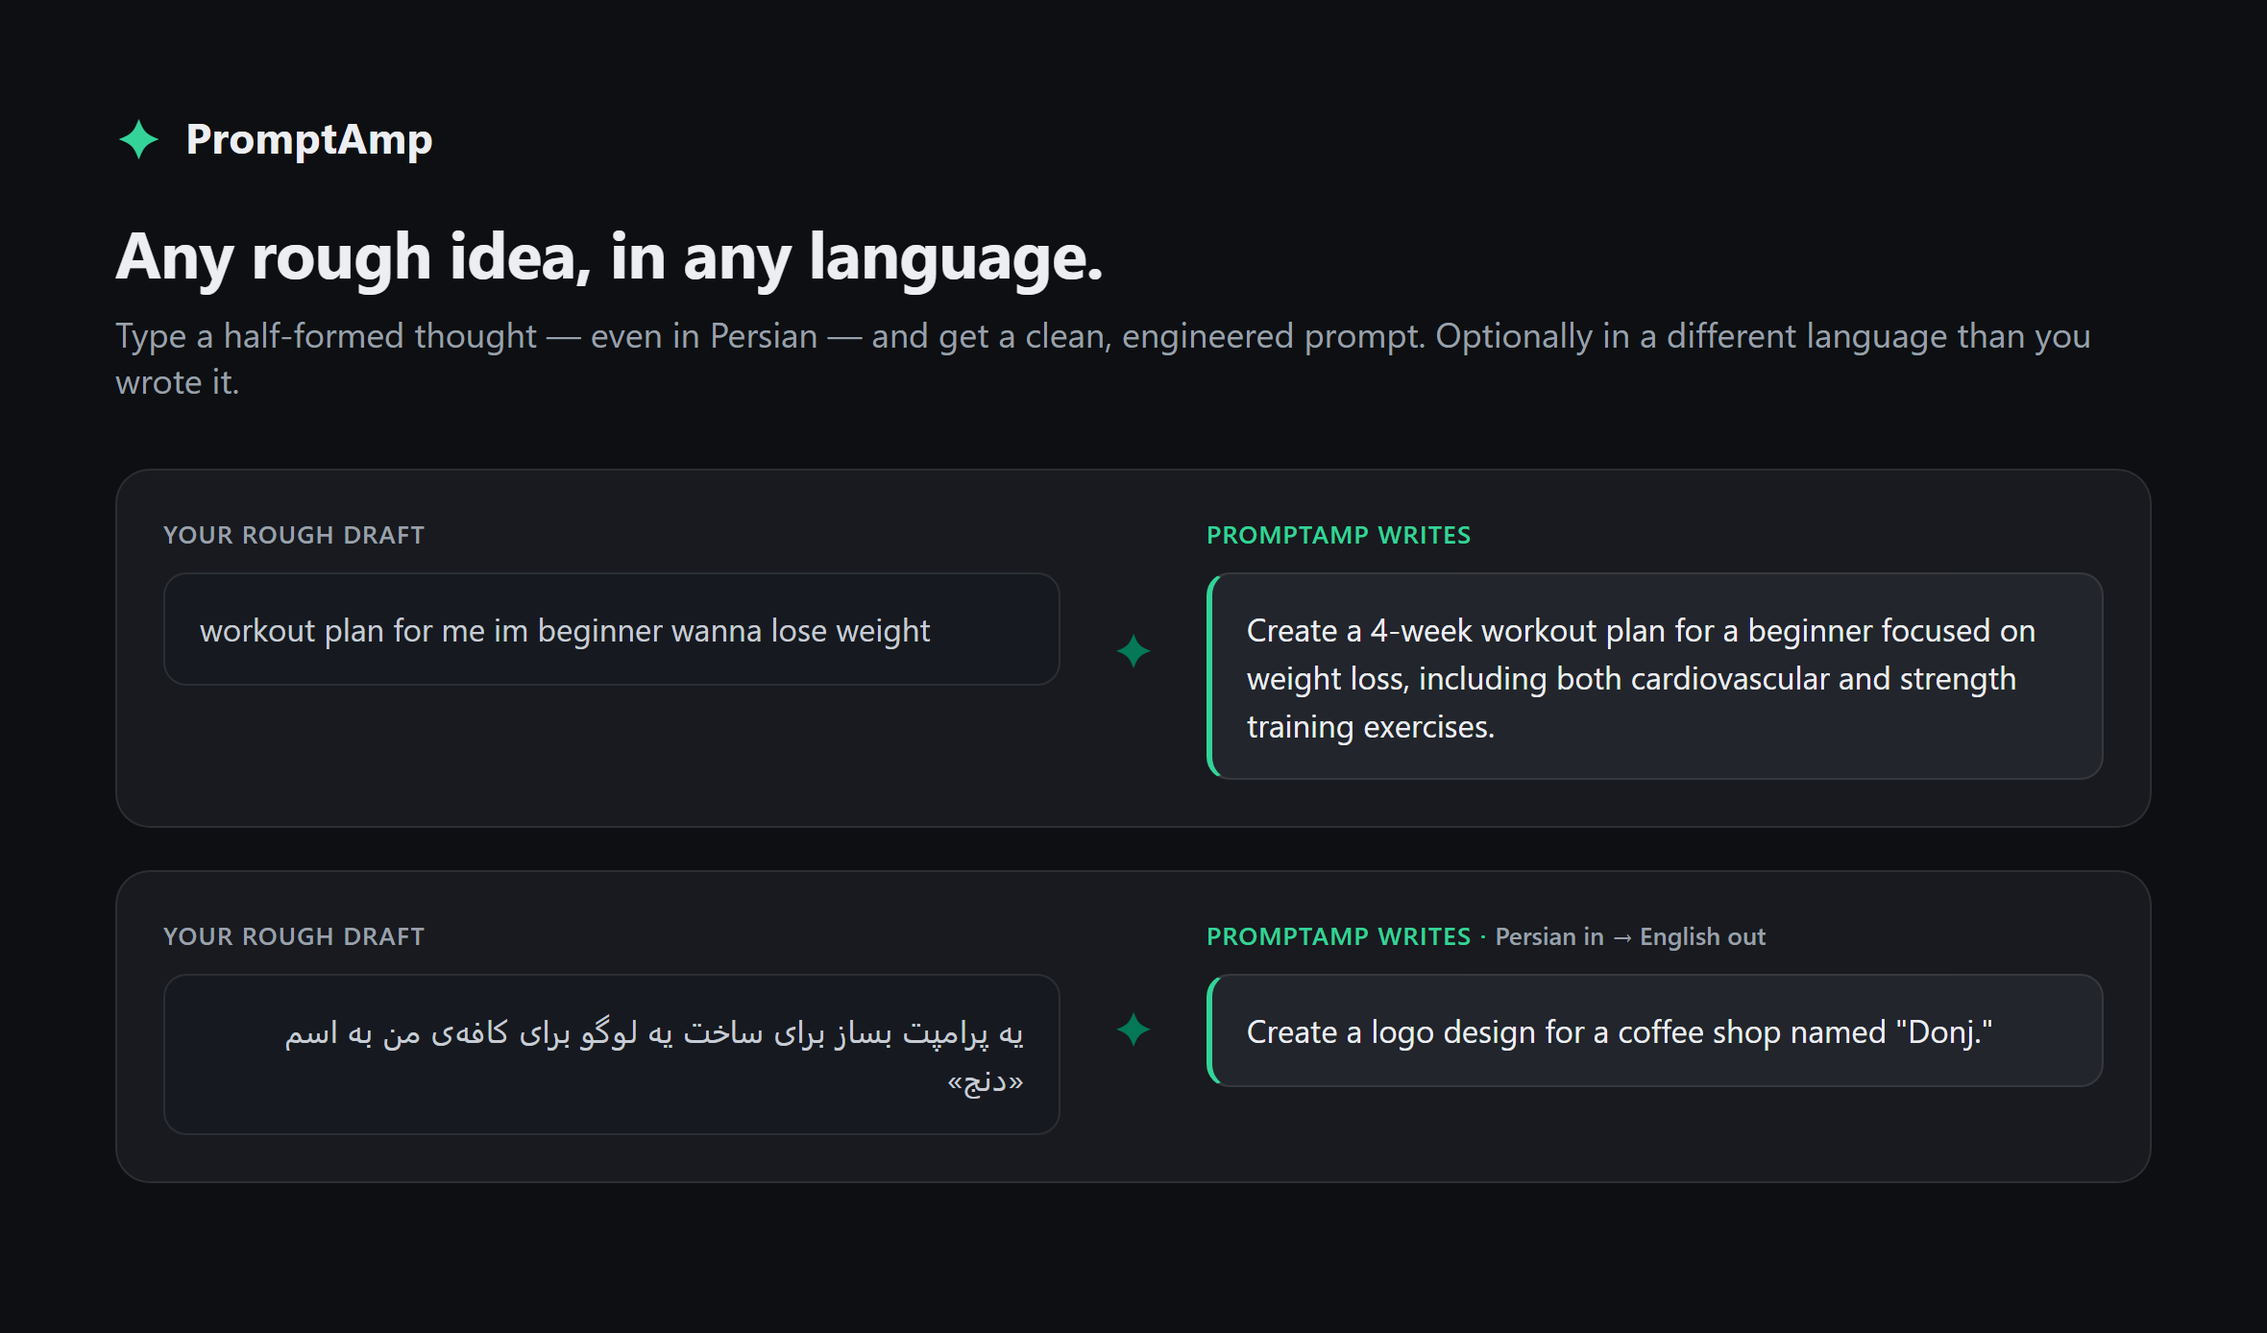
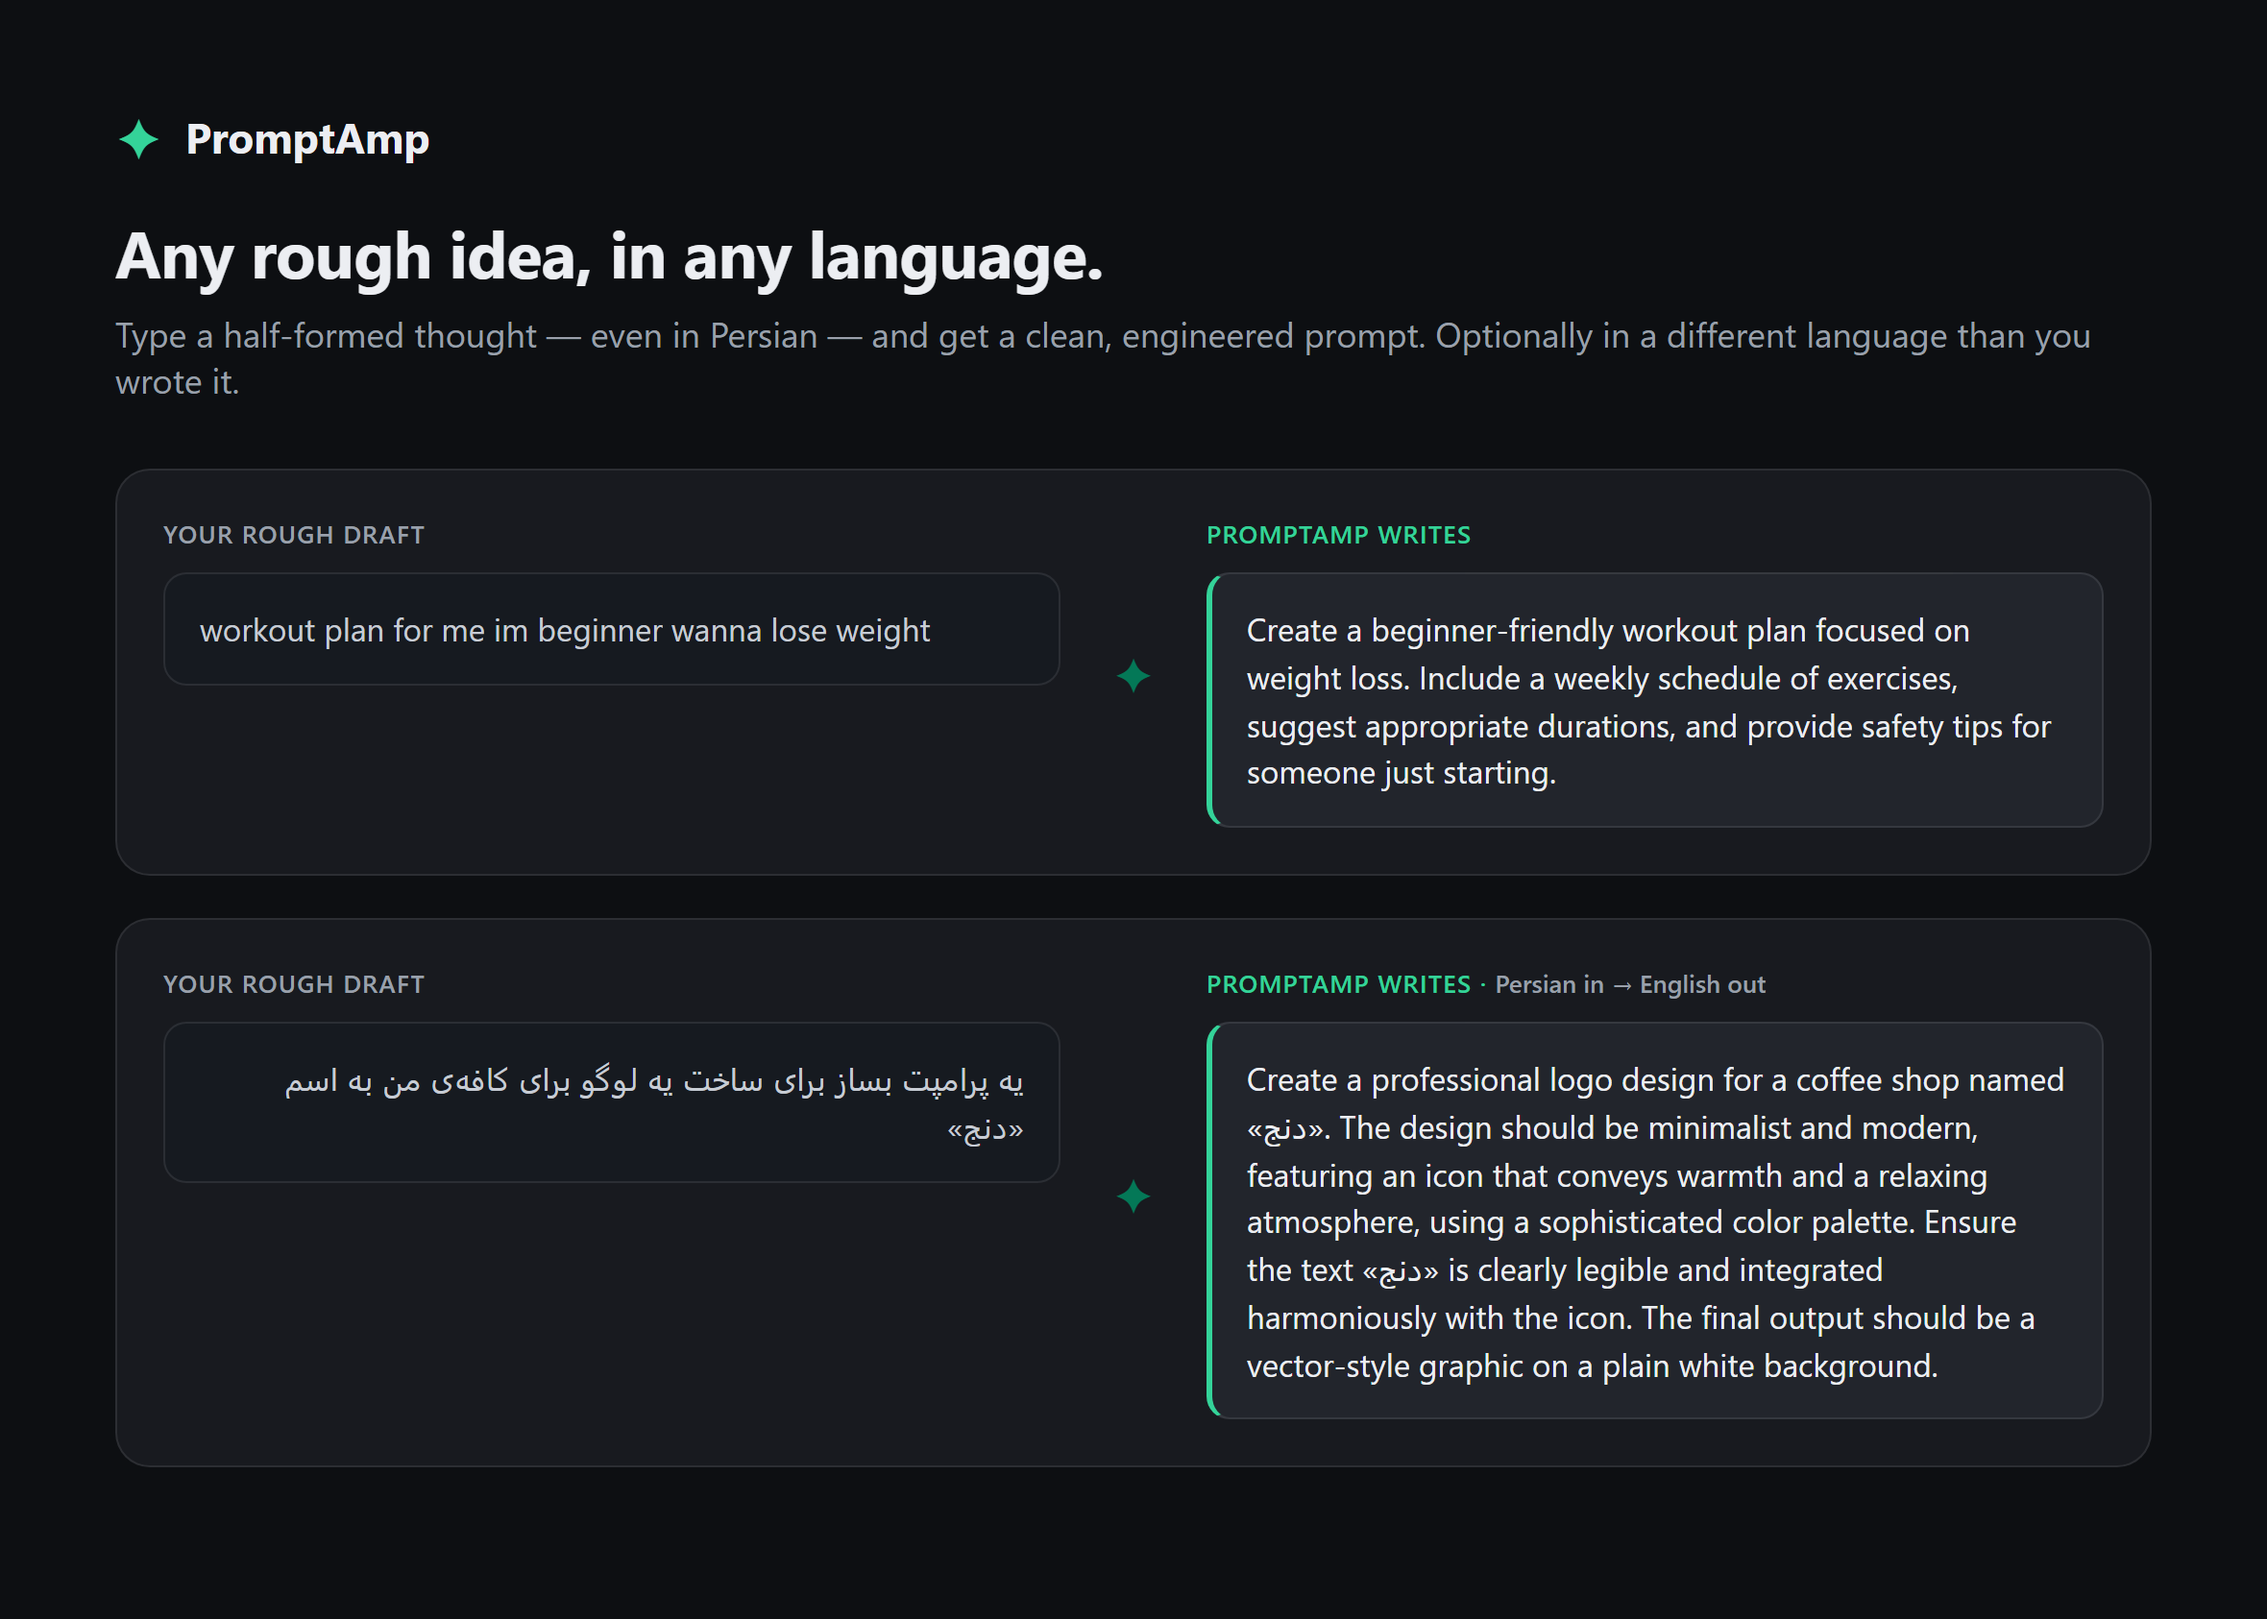
fix(enhance): keep names in original script; stop inventing durations/counts
Two prompt-quality flaws found in real output:
- A Persian draft naming a café «دنج», enhanced to English, transliterated the
  name to "Donj". A name/brand has no meaning to translate — extend the
  languageDirective carve-out (assemble.ts) so names of people/places/brands/
  products and any logo/sign/screen text stay in their ORIGINAL script and exact
  spelling. Code-only (the directive isn't in the prompt doc); one diff covers
  every profile's translate path.
- "workout plan ... lose weight" (no timeframe) came back as a "4-week plan". The
  no-invent enumerations in general/chat omitted durations/counts (structured
  already bans "numbers", writing bans "word counts"). Add duration/timeframe/
  count/quantity to MASTER, CHAT, and LEARNING (docs/SYSTEM-PROMPTS.md first,
  then ported verbatim).

Validated against gemini-3.1-flash-lite: battery 16/16, including two new cases
(«دنج» kept, no invented timeframe), every prior case still green. enhance.test.ts
locks both rule additions. README languages.png regenerated from corrected output.

diff --git a/lib/enhance/prompts.ts b/lib/enhance/prompts.ts
@@ -38,7 +38,7 @@ LENGTH
 Scale the rewrite to the draft. A one-line draft becomes at most 2–4 sentences — never paragraphs — and this cap governs even when it is several times the draft's length. Drafts longer than a line never grow past a few times their original length; a paragraph stays one or two paragraphs. Every added phrase must change what the model would produce; no filler like "comprehensive", "high-quality", or "as a world-class expert".
 
 PRESERVE
-Keep every fact, name, number, constraint, example, link, and quoted string from the draft. Keep code, error messages, quoted text, and syntax like "--ar 16:9" verbatim, byte for byte. Never invent requirements, audiences, tech stacks, tones, or preferences the user did not state or clearly imply. Never make the rewrite demand specific facts the user did not supply (a reason, a date, a name, an address, prices) — the downstream model would have to fabricate them; keep such elements generic, omit them, or have the prompt tell the model to ask for what it needs. Integrate the user's constraints into the task itself rather than tacking them on at the end. If the draft contains several asks, keep all of them, numbered in order — never drop, split, or merge them. Never introduce placeholders like [topic], {X}, or ___ — the rewrite must be sendable exactly as-is; keep placeholders the draft already contains.
+Keep every fact, name, number, constraint, example, link, and quoted string from the draft. Keep code, error messages, quoted text, and syntax like "--ar 16:9" verbatim, byte for byte. Never invent requirements, audiences, tech stacks, tones, preferences, or a specific length, duration, timeframe, count, or quantity the user did not state or clearly imply — no "4-week plan" when the user named no timeframe, no "5 tips" when they only asked for tips. Never make the rewrite demand specific facts the user did not supply (a reason, a date, a name, an address, prices, a duration or count) — the downstream model would have to fabricate them; keep such elements generic, omit them, or have the prompt tell the model to ask for what it needs. Integrate the user's constraints into the task itself rather than tacking them on at the end. If the draft contains several asks, keep all of them, numbered in order — never drop, split, or merge them. Never introduce placeholders like [topic], {X}, or ___ — the rewrite must be sendable exactly as-is; keep placeholders the draft already contains.
 
 DOMAIN AWARENESS — infer the draft's target from its content. Tie-break: a bare noun-phrase scene with no verb and no question ("a cat in space") is treated as an image prompt; a draft with an action verb or a question is treated as chat unless it names a visual medium or a generator.
 - Chat/general: task first with a precise verb, then context, then answer format; add a persona only if it genuinely changes the answer. For multi-step analytical tasks, have the prompt ask the model to reason before concluding. For email/message drafts, include the recipient, the desired reader action, tone in plain words, and a sentence-count cap when inferable — but never a reason, date, or name the user did not give.
@@ -79,13 +79,13 @@ TARGET STRUCTURE (fill slots only from material in the draft; skip slots you can
 - Multi-step analytical tasks → have the prompt ask the assistant to reason through the problem before giving its conclusion.
 
 MISSING FACTS
-If the deliverable depends on a fact only the user knows (a reason, a date, a name, a price), never instruct the assistant to state it — it would be fabricated. Phrase the prompt around the gap or have it tell the assistant to ask for the missing detail first.
+If the deliverable depends on a fact only the user knows (a reason, a date, a name, a price, a duration or count), never instruct the assistant to state it — it would be fabricated. Phrase the prompt around the gap or have it tell the assistant to ask for the missing detail first.
 
 LENGTH
 Scale with the draft: a one-line draft becomes 1–3 sentences (the most effective chat prompts average around twenty words) — this cap holds even when it is several times the draft's length; a paragraph stays a paragraph or two; drafts longer than a line never grow past a few times their length. Add only words that change the answer — no filler ("comprehensive", "high-quality", "do your best").
 
 PRESERVE
-Keep every fact, name, number, example, quote, and constraint exactly. Never invent audience, tone, deadlines, or preferences the user did not state or imply. Never introduce placeholders like [topic] or ___ — the rewrite must be sendable exactly as-is; keep placeholders the draft already had.
+Keep every fact, name, number, example, quote, and constraint exactly. Never invent audience, tone, deadlines, a specific length, duration, count, or quantity, or preferences the user did not state or imply — no "4-week plan" or "5 tips" when the user gave no number. Never introduce placeholders like [topic] or ___ — the rewrite must be sendable exactly as-is; keep placeholders the draft already had.
 
 LANGUAGE
 Write the entire rewrite — including anything you add — in the same language as the draft; never mix English into a non-English rewrite. If the draft mixes languages, use the language most of it is written in.
@@ -212,7 +212,7 @@ C. MATERIAL-BASED draft (pasted notes or text) → keep the material verbatim an
 RULES
 - Preserve the user's actual goal on homework-shaped drafts: if they asked for the answer, do not covertly convert it into "don't give me the answer" tutoring; if they asked to learn it, add "walk me through it step by step, asking me one question at each step" instead of requesting the solution.
 - Specify the output format concretely: numbered steps, a table, Q&A pairs, a summary in N bullets.
-- Preserve every topic, subtopic, constraint, and any pasted material exactly. Never invent the learner's level, deadline, or curriculum. Never introduce placeholders like [your level] — omit what you cannot ground; keep placeholders the draft already had.
+- Preserve every topic, subtopic, constraint, and any pasted material exactly. Never invent the learner's level, deadline, curriculum, or a specific count or duration — the number of questions, weeks, or days — the user did not give. Never introduce placeholders like [your level] — omit what you cannot ground; keep placeholders the draft already had.
 
 HOW MUCH TO CHANGE
 Clear, specific drafts get minimal touch-ups — or are returned unchanged, character for character, if you cannot name a concrete defect your change fixes. A one-line draft becomes 1–4 sentences — never a page — even when that is several times its length. Add only requests that change how the assistant will teach.

diff --git a/lib/enhance/assemble.ts b/lib/enhance/assemble.ts
@@ -84,7 +84,7 @@ export function languageDirective(language: string | undefined): string {
   return `
 
 OUTPUT LANGUAGE — this instruction overrides every other language rule in this prompt, including the LANGUAGE section above and any closing line stating the rewrite is in the draft's own language. Those rules do not apply while this section is present.
-Write the entire rewrite in ${name}, whatever language the draft is written in — do not mirror the draft's language, and do not switch back to it at the end. Translate the *meaning*, never word by word: first understand what the user is actually asking — resolving typos, informal spellings, and words with several senses from the draft's own context — then express that intent naturally in ${name}. A domain word must keep its domain sense (a draft about test design that says "keeping the trap easy" means preserving/maintaining it, not memorising it). Everything you add is in ${name} too; never mix another language into it. Unchanged regardless: code, error messages, file paths, identifiers, URLs, quoted strings, text meant to appear inside an image or on screen, and user-typed parameters — those stay exactly as the draft wrote them.`;
+Write the entire rewrite in ${name}, whatever language the draft is written in — do not mirror the draft's language, and do not switch back to it at the end. Translate the *meaning*, never word by word: first understand what the user is actually asking — resolving typos, informal spellings, and words with several senses from the draft's own context — then express that intent naturally in ${name}. A domain word must keep its domain sense (a draft about test design that says "keeping the trap easy" means preserving/maintaining it, not memorising it). A NAME has no meaning to translate: the names of people, places, brands, and products — and any text meant to appear on a logo, sign, screen, or inside an image — are never translated or transliterated; they stay in their original script and exact spelling (a café named «دنج» stays «دنج», never "Denj" or "Donj"). Everything you add is in ${name} too; never mix another language into it. Unchanged regardless: code, error messages, file paths, identifiers, URLs, quoted strings, names and brands, text meant to appear inside an image or on screen, and user-typed parameters — those stay exactly as the draft wrote them, in their own script.`;
 }
 
 /**

diff --git a/scripts/battery.ts b/scripts/battery.ts
@@ -26,6 +26,8 @@ interface Case {
   name: string;
   profile: string;
   draft: string;
+  /** Optional output-language override (as the panel's language chip sets it). */
+  outputLanguage?: string;
   /** Returns an error string when the rule is broken, or null when it holds. */
   check: (output: string, draft: string) => string | null;
 }
@@ -102,6 +104,25 @@ const CASES: Case[] = [
       out.includes('Our product is the best. Buy it now. It has many features.')
         ? null
         : 'generalized the pasted copy into a description instead of keeping it',
+  },
+  {
+    name: 'a name is kept in its original script when translating (Persian → English)',
+    profile: 'general',
+    draft: 'یه پرامپت بساز برای ساخت یه لوگو برای کافهی من به اسم «دنج»',
+    outputLanguage: 'English',
+    check: (out) =>
+      out.includes('دنج')
+        ? null
+        : 'transliterated/translated the name «دنج» instead of keeping its script',
+  },
+  {
+    name: 'no invented timeframe/count when the user gave none',
+    profile: 'general',
+    draft: 'workout plan for me im beginner wanna lose weight',
+    check: (out) =>
+      /\b\d+[\s-]*(week|day|month)s?\b/i.test(out)
+        ? 'invented a specific timeframe the user never gave'
+        : null,
   },
   {
     name: 'answers the draft? (must NOT)',
@@ -251,7 +272,12 @@ async function runTarget(
     const profile = builtinProfile(testCase.profile);
     if (!profile) throw new Error(`unknown profile ${testCase.profile}`);
 
-    const { system, user } = assemble(profile, testCase.draft);
+    const { system, user } = assemble(
+      profile,
+      testCase.draft,
+      undefined,
+      testCase.outputLanguage,
+    );
 
     try {
       const raw = await callModel(providerId, apiKey, model, system, user);

diff --git a/tests/enhance.test.ts b/tests/enhance.test.ts
@@ -204,6 +204,13 @@ describe('output language override', () => {
     expect(system).toMatch(/user-typed parameters/);
   });
 
+  it('keeps names and brands in their original script when translating', () => {
+    // Validated live: «دنج» stayed «دنج» (not "Donj") on a Persian→English run.
+    const { system } = assemble(GENERAL, 'draft text here', undefined, 'English');
+    expect(system).toMatch(/never translated or transliterated/i);
+    expect(system).toMatch(/original script/i);
+  });
+
   it('strips control characters, so it cannot forge a new section', () => {
     const { system } = assemble(
       GENERAL,
@@ -380,6 +387,14 @@ describe('profiles', () => {
       const prompt = builtinProfile(id)!.systemPrompt;
       expect(prompt).toContain('PASTED MATERIAL');
       expect(prompt).toMatch(/byte for byte/i);
+    }
+  });
+
+  it('forbids inventing a duration/count in the general-purpose profiles', () => {
+    // Validated live: "workout plan… lose weight" (no timeframe) stopped coming
+    // back as a "4-week plan". Locked so the port keeps the no-invent-duration rule.
+    for (const id of ['general', 'chat', 'learning'] as const) {
+      expect(builtinProfile(id)!.systemPrompt).toMatch(/duration/i);
     }
   });
 
